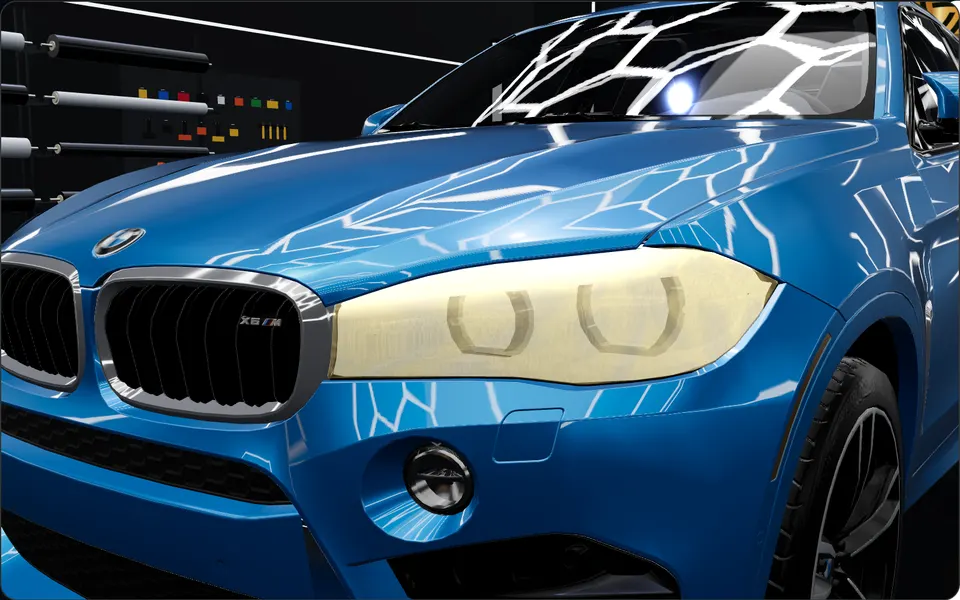
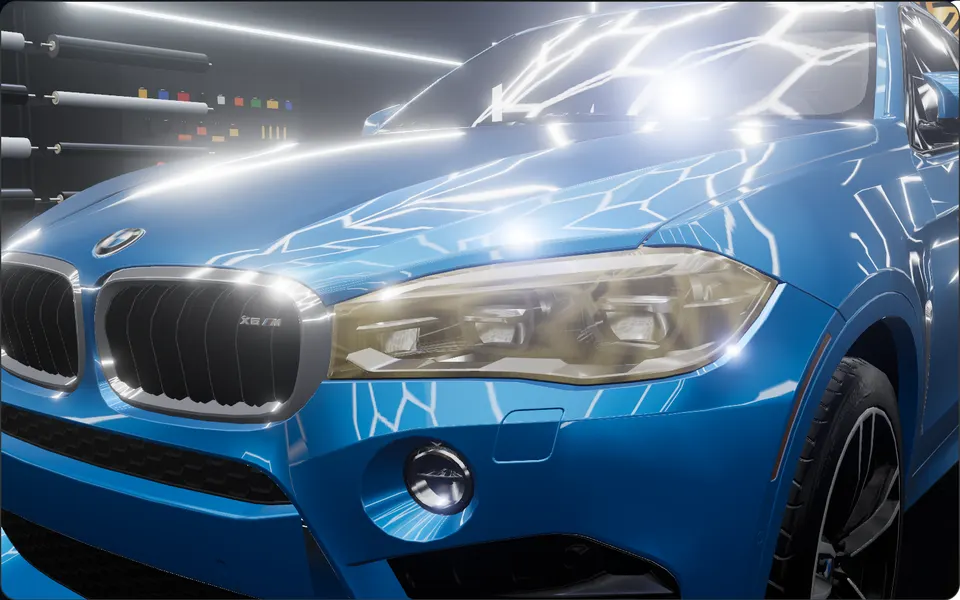
Feux plus réalistes : diffuseurs LED, verre teinté, halo, reflets rouges
- X6 : les feux s'éclairent depuis la texture du modèle (barres LED en L,
  anneaux, réflecteurs) derrière un verre rouge teinté ; le film fumé fonce
  le verre et laisse passer une part de la lumière ; au freinage, halo et
  reflets rouges sur le bouclier (deux lumières, une par bloc) et au sol.
- Simulateurs en studio : halo lumineux (bloom) sur les sources les plus
  vives, chargé seulement sur ordinateur.
- Voitures garées : feux éteints.
- Affiches des simulateurs feux et phares régénérées.

Claude-Session: https://claude.ai/code/session_01WzRGAvm3wCuaeufvsmjiDu

diff --git a/src/js/tour/car-model.js b/src/js/tour/car-model.js
@@ -185,21 +185,57 @@ export async function loadCarModel(cfg, { quality = 'high', onProgress } = {}) {
   setMat(find(P.rearWindows), glass.rear);
 
   // ------------------------------------------------------------ tail lights (smoked film)
+  // `lights.textured`: the model's own light texture drives the glow (LED light guides,
+  // rings, reflectors light up, the housing stays dark) behind a tinted glass lens.
+  const textured = !!cfg.lights?.textured;
   const tailMeshes = find(P.tailLights);
-  const tailMat = new THREE.MeshPhysicalMaterial({
-    color: 0x3a0204,
-    emissive: 0xff1810,
-    emissiveIntensity: 2.2,
-    roughness: 0.12,
-    clearcoat: 1,
-    clearcoatRoughness: 0.03,
-  });
-  setMat(tailMeshes, tailMat, 0);
+  const tailMat = textured
+    ? new THREE.MeshPhysicalMaterial({
+        color: 0x6a0608,
+        emissive: 0xff1810,
+        emissiveIntensity: 0,
+        roughness: 0.04,
+        metalness: 0,
+        clearcoat: 1,
+        clearcoatRoughness: 0.02,
+        transparent: true,
+        opacity: 0.42,
+        depthWrite: false,
+      })
+    : new THREE.MeshPhysicalMaterial({
+        color: 0x3a0204,
+        emissive: 0xff1810,
+        emissiveIntensity: 2.2,
+        roughness: 0.12,
+        clearcoat: 1,
+        clearcoatRoughness: 0.03,
+      });
+  setMat(tailMeshes, tailMat, textured ? 3 : 0);
   const signalMat = new THREE.MeshPhysicalMaterial({ color: 0x2a1404, emissive: 0xff7a10, emissiveIntensity: 0.0, roughness: 0.15 });
   setMat(find(P.tailSignals), signalMat, 0);
   const housingMeshes = find(P.tailHousing);
-  const housingMat = new THREE.MeshPhysicalMaterial({ color: 0x1a0507, roughness: 0.18, clearcoat: 1, clearcoatRoughness: 0.04, emissive: 0x6a0306, emissiveIntensity: 0.35 });
+  const housingMat = textured && housingMeshes.length
+    ? litFromTexture(housingMeshes[0].material, 0xff2614)
+    : new THREE.MeshPhysicalMaterial({ color: 0x1a0507, roughness: 0.18, clearcoat: 1, clearcoatRoughness: 0.04, emissive: 0x6a0306, emissiveIntensity: 0.35 });
   setMat(housingMeshes, housingMat, 0);
+  // red light on the bumper and the floor while the lights are on / braking
+  const tailBox = new THREE.Box3();
+  group.updateMatrixWorld(true);
+  tailMeshes.forEach((m) => tailBox.expandByObject(m, true));
+  tailBox.applyMatrix4(new THREE.Matrix4().copy(group.matrixWorld).invert());
+  // one red light per side, just behind each cluster
+  const tailLights = [new THREE.PointLight(0xff2010, 0, 1.8, 2), new THREE.PointLight(0xff2010, 0, 1.8, 2)];
+  const tailLight = { set intensity(v) { tailLights.forEach((l) => (l.intensity = v)); } };
+  const spill = makeSpill(0xff1a0c);
+  if (!tailBox.isEmpty()) {
+    const c = tailBox.getCenter(new THREE.Vector3());
+    tailLights[0].position.set(tailBox.min.x - 0.2, c.y, tailBox.min.z + 0.18);
+    tailLights[1].position.set(tailBox.min.x - 0.2, c.y, tailBox.max.z - 0.18);
+    group.add(...tailLights);
+    spill.position.set(tailBox.min.x - 0.45, 0.008, c.z);
+    spill.scale.set(1.5, 1, Math.max(1.6, (tailBox.max.z - tailBox.min.z) * 1.5));
+    group.add(spill);
+  }
   // brake glow: a row of soft sprites along the light bar
   const tailGlows = [];
   {
@@ -222,7 +258,9 @@ export async function loadCarModel(cfg, { quality = 'high', onProgress } = {}) {
 
   // ------------------------------------------------------------ headlights + renovation lens
   const headMeshes = find(P.headLights);
-  const headMat = new THREE.MeshStandardMaterial({ color: 0x0d1013, emissive: 0xd6ecff, emissiveIntensity: 0.6, roughness: 0.25, metalness: 0.6 });
+  const headMat = textured && headMeshes.length
+    ? litFromTexture(headMeshes[0].material, 0xd9ecff)
+    : new THREE.MeshStandardMaterial({ color: 0x0d1013, emissive: 0xd6ecff, emissiveIntensity: 0.6, roughness: 0.25, metalness: 0.6 });
   setMat(headMeshes, headMat, 0);
   const lens = makeLens();
   const glows = [];
@@ -407,6 +445,22 @@ export async function loadCarModel(cfg, { quality = 'high', onProgress } = {}) {
   const tailEmitSmoked = new THREE.Color(0xb00606);
   function applyTail() {
     const { smoke, brake, on } = state;
+    if (textured) {
+      // tinted glass over lit light guides: the film darkens the glass, the LEDs show through
+      const through = Math.pow(1 - Math.min(smoke, 0.98), 1.4);
+      tailMat.color.copy(redRed).multiplyScalar(2.2).lerp(smokeCol, Math.min(1, smoke * 1.1));
+      tailMat.opacity = 0.42 + 0.5 * smoke;
+      tailMat.emissive.copy(tailEmit);
+      tailMat.emissiveIntensity = (on * 0.12 + brake * 0.5) * through;
+      housingMat.emissiveIntensity = (0.05 + on * 2.2) * through + brake * 9 * (1 - 0.75 * smoke);
+      const glow = (on * 0.2 + brake * 1.0) * (1 - 0.7 * smoke);
+      tailLight.intensity = glow * 1.6;
+      // only braking lights the floor visibly
+      spill.material.opacity = brake * (1 - 0.7 * smoke) * 0.3;
+      // the halo comes from the lit light guides (and the bloom), not from sprites
+      for (const g of tailGlows) g.material.opacity = 0;
+      return;
+    }
     // share of the lamp light that gets through the film (80 % film: a few percent of the
     // position lights, the brake light still clearly visible)
     const pass = Math.pow(1 - Math.min(smoke, 0.98), 1.6);
@@ -416,6 +470,9 @@ export async function loadCarModel(cfg, { quality = 'high', onProgress } = {}) {
     housingMat.color.copy(housingRed).lerp(smokeCol, smoke);
     housingMat.emissiveIntensity = (0.02 + on * 0.33) * pass + brake * 0.8 * (1 - 0.8 * smoke);
     for (const g of tailGlows) g.material.opacity = (on * 0.12 + brake * 0.75) * (1 - 0.6 * smoke);
+    const glow = (on * 0.2 + brake * 0.9) * (1 - 0.7 * smoke);
+    tailLight.intensity = glow * 1.2;
+    spill.material.opacity = brake * (1 - 0.7 * smoke) * 0.25;
   }
   applyTail();
 
@@ -1049,5 +1106,79 @@ async function addPlate(group, model, box, { y = 0.47, z = 0, text = 'SOLAR CAR 
   plate.position.copy(p).addScaledVector(n, 0.004);
   plate.quaternion.setFromUnitVectors(new THREE.Vector3(0, 0, 1), n);
   group.add(plate);
+}
+
+/**
+ * Light material built from the model's own light texture: the bright parts of its base
+ * colour (LED light guides, rings, reflectors) become the emissive map, so the lamp lights up
+ * with its real inner shapes while the housing stays dark.
+ */
+const brightMaps = new WeakMap();
+function litFromTexture(original, color) {
+  const src = Array.isArray(original) ? original[0] : original;
+  const m = src.clone();
+  m.emissive = new THREE.Color(color);
+  m.emissiveIntensity = 0;
+  const map = src.map;
+  const img = map?.image;
+  if (img && (img.width || img.naturalWidth)) {
+    let em = brightMaps.get(map);
+    if (!em) {
+      const w = img.width || img.naturalWidth;
+      const h = img.height || img.naturalHeight;
+      const c = document.createElement('canvas');
+      c.width = w;
+      c.height = h;
+      const g = c.getContext('2d', { willReadFrequently: true });
+      g.drawImage(img, 0, 0);
+      const d = g.getImageData(0, 0, w, h);
+      for (let i = 0; i < d.data.length; i += 4) {
+        const l = (0.2126 * d.data[i] + 0.7152 * d.data[i + 1] + 0.0722 * d.data[i + 2]) / 255;
+        // only the near-white parts glow
+        const t = Math.min(1, Math.max(0, (l - 0.84) / 0.13));
+        const v = Math.round(t * t * (3 - 2 * t) * 255);
+        d.data[i] = d.data[i + 1] = d.data[i + 2] = v;
+        d.data[i + 3] = 255;
+      }
+      g.putImageData(d, 0, 0);
+      em = new THREE.CanvasTexture(c);
+      em.flipY = map.flipY;
+      em.wrapS = map.wrapS;
+      em.wrapT = map.wrapT;
+      em.channel = map.channel;
+      if (map.matrixAutoUpdate === false || map.matrix) {
+        em.offset.copy(map.offset);
+        em.repeat.copy(map.repeat);
+        em.rotation = map.rotation;
+      }
+      brightMaps.set(map, em);
+    }
+    m.emissiveMap = em;
+  }
+  // a darker housing so the lit parts stand out
+  m.color = (m.color || new THREE.Color(1, 1, 1)).clone().multiplyScalar(0.55);
+  m.needsUpdate = true;
+  return m;
+}
+
+/** soft radial light on the floor (additive), e.g. red brake light behind the car */
+function makeSpill(color) {
+  const c = document.createElement('canvas');
+  c.width = c.height = 128;
+  const g = c.getContext('2d');
+  const grad = g.createRadialGradient(64, 64, 0, 64, 64, 64);
+  grad.addColorStop(0, 'rgba(255,255,255,1)');
+  grad.addColorStop(0.45, 'rgba(255,255,255,0.35)');
+  grad.addColorStop(1, 'rgba(255,255,255,0)');
+  g.fillStyle = grad;
+  g.fillRect(0, 0, 128, 128);
+  const m = new THREE.Mesh(
+    new THREE.PlaneGeometry(1, 1),
+    new THREE.MeshBasicMaterial({ map: new THREE.CanvasTexture(c), color, transparent: true, opacity: 0, depthWrite: false, blending: THREE.AdditiveBlending })
+  );
+  m.rotation.x = -Math.PI / 2;
+  m.name = 'spill';
+  m.renderOrder = 2;
+  return m;
 }
 

diff --git a/src/js/tour/stage.js b/src/js/tour/stage.js
@@ -8,7 +8,7 @@ import { loadParkedCar } from './parked.js';
  * Owns the WebGL renderer, the scene graph and the camera. Knows nothing about scroll:
  * the tour drives it through setView() and the effect setters on `car`.
  */
-export async function createStage(canvas, { quality = 'high', logoSvg = null, signTexture = null, maxDpr = 2, carConfig = null, onProgress, exterior = true } = {}) {
+export async function createStage(canvas, { quality = 'high', logoSvg = null, signTexture = null, maxDpr = 2, carConfig = null, onProgress, exterior = true, bloom = false } = {}) {
   const renderer = new THREE.WebGLRenderer({
     canvas,
     antialias: quality === 'high',
@@ -43,7 +43,7 @@ export async function createStage(canvas, { quality = 'high', logoSvg = null, si
   const mirror = premises.reflect.clone(true);
   mirror.scale.y = -1;
   mirror.name = 'mirror';
-  const hiddenInMirror = new Set(['sky', 'beam', 'shadow', 'stars', 'starLiner', 'floorFx', 'spray']);
+  const hiddenInMirror = new Set(['sky', 'beam', 'shadow', 'stars', 'starLiner', 'floorFx', 'spray', 'spill']);
   mirror.traverse((o) => {
     if (hiddenInMirror.has(o.name) || o.isSprite) o.visible = false;
   });
@@ -70,6 +70,27 @@ export async function createStage(canvas, { quality = 'high', logoSvg = null, si
   const camera = new THREE.PerspectiveCamera(50, 1, 0.02, 600);
   scene.add(camera);
 
+  // optional glow around bright lights (lamps, LEDs, the hex ceiling): loaded only when asked
+  let composer = null;
+  if (bloom) {
+    try {
+      const [{ EffectComposer }, { RenderPass }, { UnrealBloomPass }, { OutputPass }] = await Promise.all([
+        import('three/addons/postprocessing/EffectComposer.js'),
+        import('three/addons/postprocessing/RenderPass.js'),
+        import('three/addons/postprocessing/UnrealBloomPass.js'),
+        import('three/addons/postprocessing/OutputPass.js'),
+      ]);
+      composer = new EffectComposer(renderer, new THREE.WebGLRenderTarget(1, 1, { type: THREE.HalfFloatType, samples: quality === 'high' ? 4 : 0 }));
+      composer.addPass(new RenderPass(scene, camera));
+      // only the brightest sources bloom (lamps, LEDs), not the sign or the paint
+      composer.addPass(new UnrealBloomPass(new THREE.Vector2(1, 1), 0.3, 0.4, 1.5));
+      composer.addPass(new OutputPass());
+    } catch (err) {
+      console.warn('[stage] bloom unavailable', err);
+      composer = null;
+    }
+  }
+
   const state = { w: 1, h: 1, dpr: 1, offsetX: 0, offsetY: 0 };
   function resize(w, h, dpr = Math.min(window.devicePixelRatio || 1, maxDpr)) {
     state.w = w;
@@ -77,6 +98,10 @@ export async function createStage(canvas, { quality = 'high', logoSvg = null, si
     state.dpr = dpr;
     renderer.setPixelRatio(dpr);
     renderer.setSize(w, h, false);
+    if (composer) {
+      composer.setPixelRatio(dpr);
+      composer.setSize(w, h);
+    }
     camera.aspect = w / h;
     applyOffset();
     camera.updateProjectionMatrix();
@@ -139,7 +164,8 @@ export async function createStage(canvas, { quality = 'high', logoSvg = null, si
     for (let i = 0; i < mirrorTraffic.length; i++) mirrorTraffic[i].position.copy(premises.traffic[i].position);
     for (const [a, b] of sync) b.quaternion.copy(a.quaternion);
     car.update(time, state.h * state.dpr, camera.fov);
-    renderer.render(scene, camera);
+    if (composer) composer.render();
+    else renderer.render(scene, camera);
   }
 
   return { renderer, scene, camera, car, premises, resize, setView, render, park, state };

diff --git a/src/js/sim/viewer.js b/src/js/sim/viewer.js
@@ -176,6 +176,7 @@ async function createStudioViewer(container, canvas, { quality, car = null, onPr
     carConfig,
     signTexture: '/img/brand/enseigne.webp',
     exterior: false,
+    bloom: quality === 'high',
     maxDpr: quality === 'high' ? 2 : 1.5,
     onProgress,
   });
@@ -209,7 +210,7 @@ function studioParking(shown) {
 }
 
 /** bounds of the car body only: light beams, shadows, stars and glows would stretch the box */
-const NOT_BODY = new Set(['beam', 'shadow', 'stars', 'starExtras', 'floorFx', 'spray']);
+const NOT_BODY = new Set(['beam', 'shadow', 'stars', 'starExtras', 'floorFx', 'spray', 'spill']);
 function bodyBox(group) {
   const box = new THREE.Box3();
   group.updateMatrixWorld(true);

diff --git a/src/js/tour/parked.js b/src/js/tour/parked.js
@@ -9,6 +9,7 @@ export async function loadParkedCar({ config, x = 0, z = 0, ry = 0, color = null
   const api = await loadCarModel(cfg, { quality });
   // polished everywhere: the boundary sits beyond the room (paint shaders work in world x here)
   api.setPolish(10, -1);
+  api.setTailOn?.(0); // parked: lights off
   api.group.traverse((o) => {
     if (o.isSprite || o.isPoints) o.visible = false;
   });

diff --git a/content/cars/x6.js b/content/cars/x6.js
@@ -26,6 +26,8 @@ export default {
     headLens: ['head_lens_L', 'head_lens_R'],
     hide: [],
   },
+  // lights glow from the model's own light texture (LED guides, angel-eye rings) behind glass
+  lights: { textured: true },
   windowBelt: 0.92,
   windowDrop: 0.4,
   doors: {},
